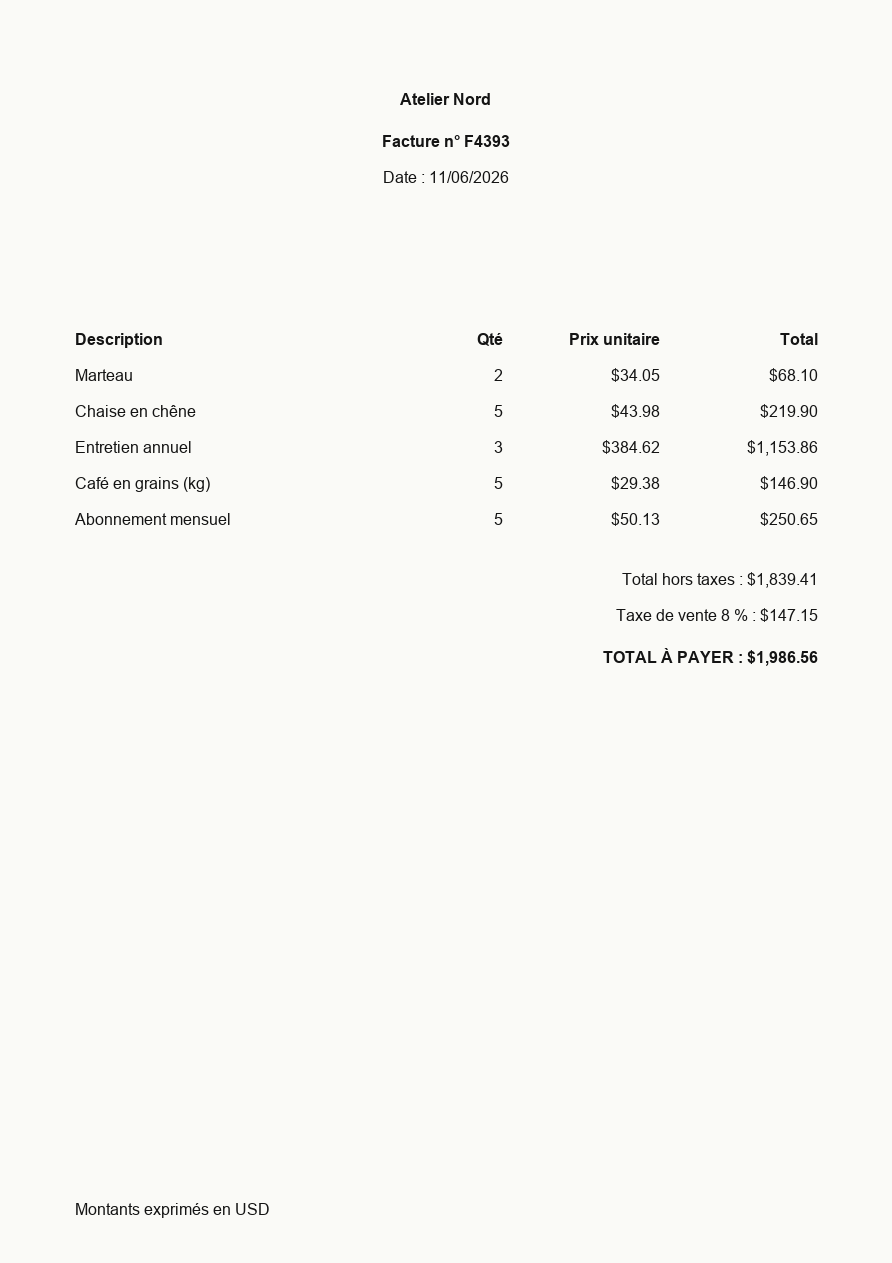
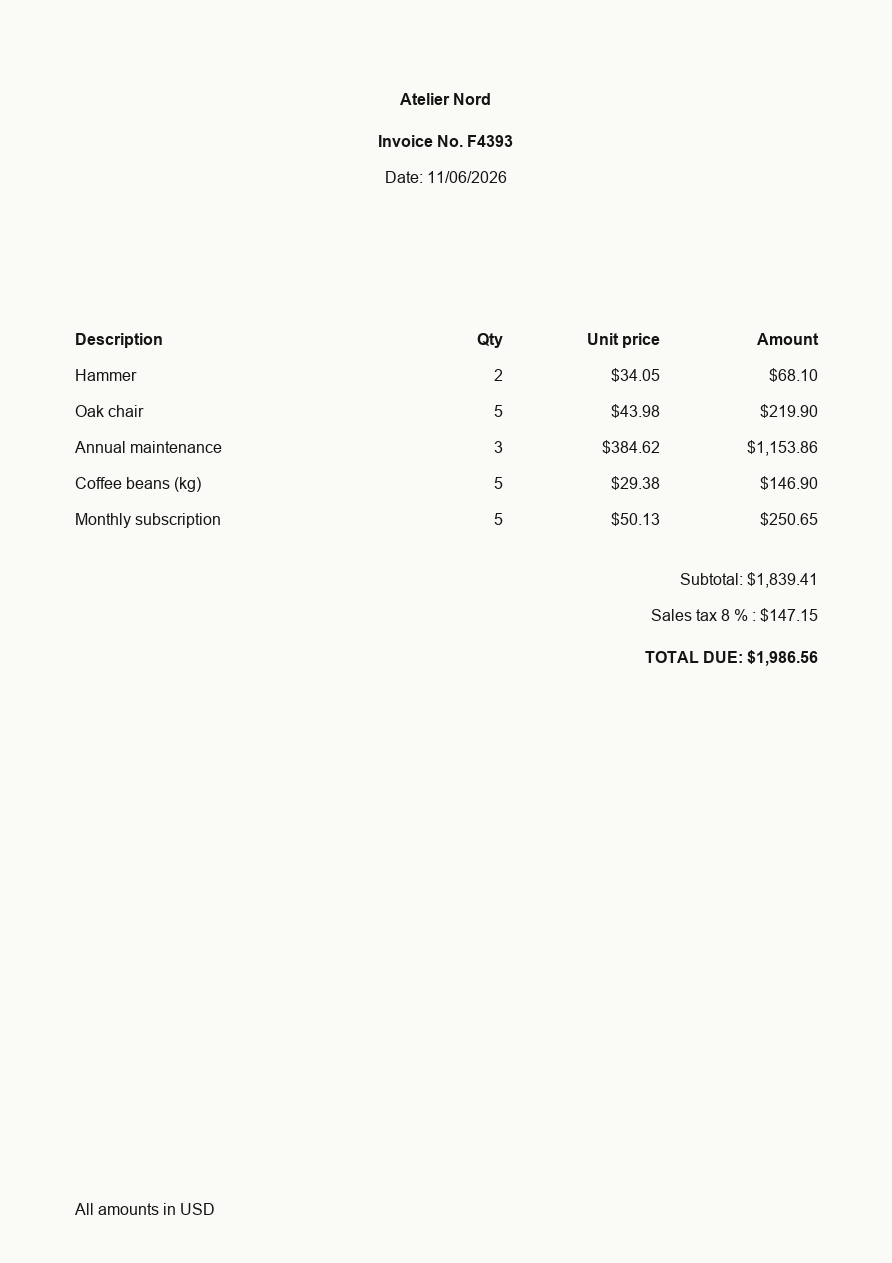
story/03-evaluation: Factures en USD entièrement américaines (libellés anglais, date mois/jour) car la première mesure a révélé des dates réellement ambiguës dans le jeu

diff --git a/backend/tests/evaluation/test_synthetic.py b/backend/tests/evaluation/test_synthetic.py
@@ -75,3 +75,43 @@ def test_the_layout_prints_every_line_description():
         printed = " ".join(item.text for item in case.items)
         for line in case.invoice.lines:
             assert line.description in printed, case.case_id
+
+
+def _printed_date(case) -> str:
+    return next(item.text for item in case.items if item.text.startswith("Date"))
+
+
+def test_usd_invoices_follow_american_conventions_in_full():
+    """Une facture en USD est en anglais avec une date mois/jour, sinon sa date est ambiguë.
+
+    Défaut découvert par la première mesure : des factures en USD avec libellés français
+    portaient une date américaine, que n'importe quel lecteur lirait à la française.
+    """
+    usd = [case for case in generate_cases() if case.invoice.currency == "USD"]
+
+    assert usd
+    for case in usd:
+        printed = " ".join(item.text for item in case.items)
+        assert "english" in case.tags, case.case_id
+        assert "Facture" not in printed and "Date : " not in printed, case.case_id
+        assert "All amounts in USD" in printed, case.case_id
+
+
+def test_the_printed_date_always_matches_the_ground_truth_under_its_own_convention():
+    import re
+
+    for case in generate_cases():
+        text = _printed_date(case).split(":", 1)[1].strip()
+        match = re.fullmatch(r"(\d{2})/(\d{2})/(\d{4})", text)
+        if match is None:
+            continue  # date écrite en toutes lettres : pas d'ambiguïté
+        first, second, year = (int(part) for part in match.groups())
+        if case.invoice.currency == "USD":
+            month, day = first, second  # convention américaine
+        else:
+            day, month = first, second  # convention européenne et canadienne-française
+        assert (year, month, day) == (
+            case.invoice.issue_date.year,
+            case.invoice.issue_date.month,
+            case.invoice.issue_date.day,
+        ), case.case_id

diff --git a/backend/app/evaluation/synthetic.py b/backend/app/evaluation/synthetic.py
@@ -231,7 +231,9 @@ def generate_cases(seed: int = 2026, count: int = 24) -> list[EvalCase]:
 
     for index in range(count):
         currency = ["EUR", "CAD", "USD"][index % 3]
-        english = index % 4 == 3
+        # Une facture en dollars US suit les conventions américaines complètes : libellés en
+        # anglais et date mois/jour. Sans cela, une date comme 05/07/2026 est réellement ambiguë.
+        english = index % 4 == 3 or currency == "USD"
         premium = index % 4 == 1
         negative_line = index % 5 == 2
         missing_number = index % 6 == 5
